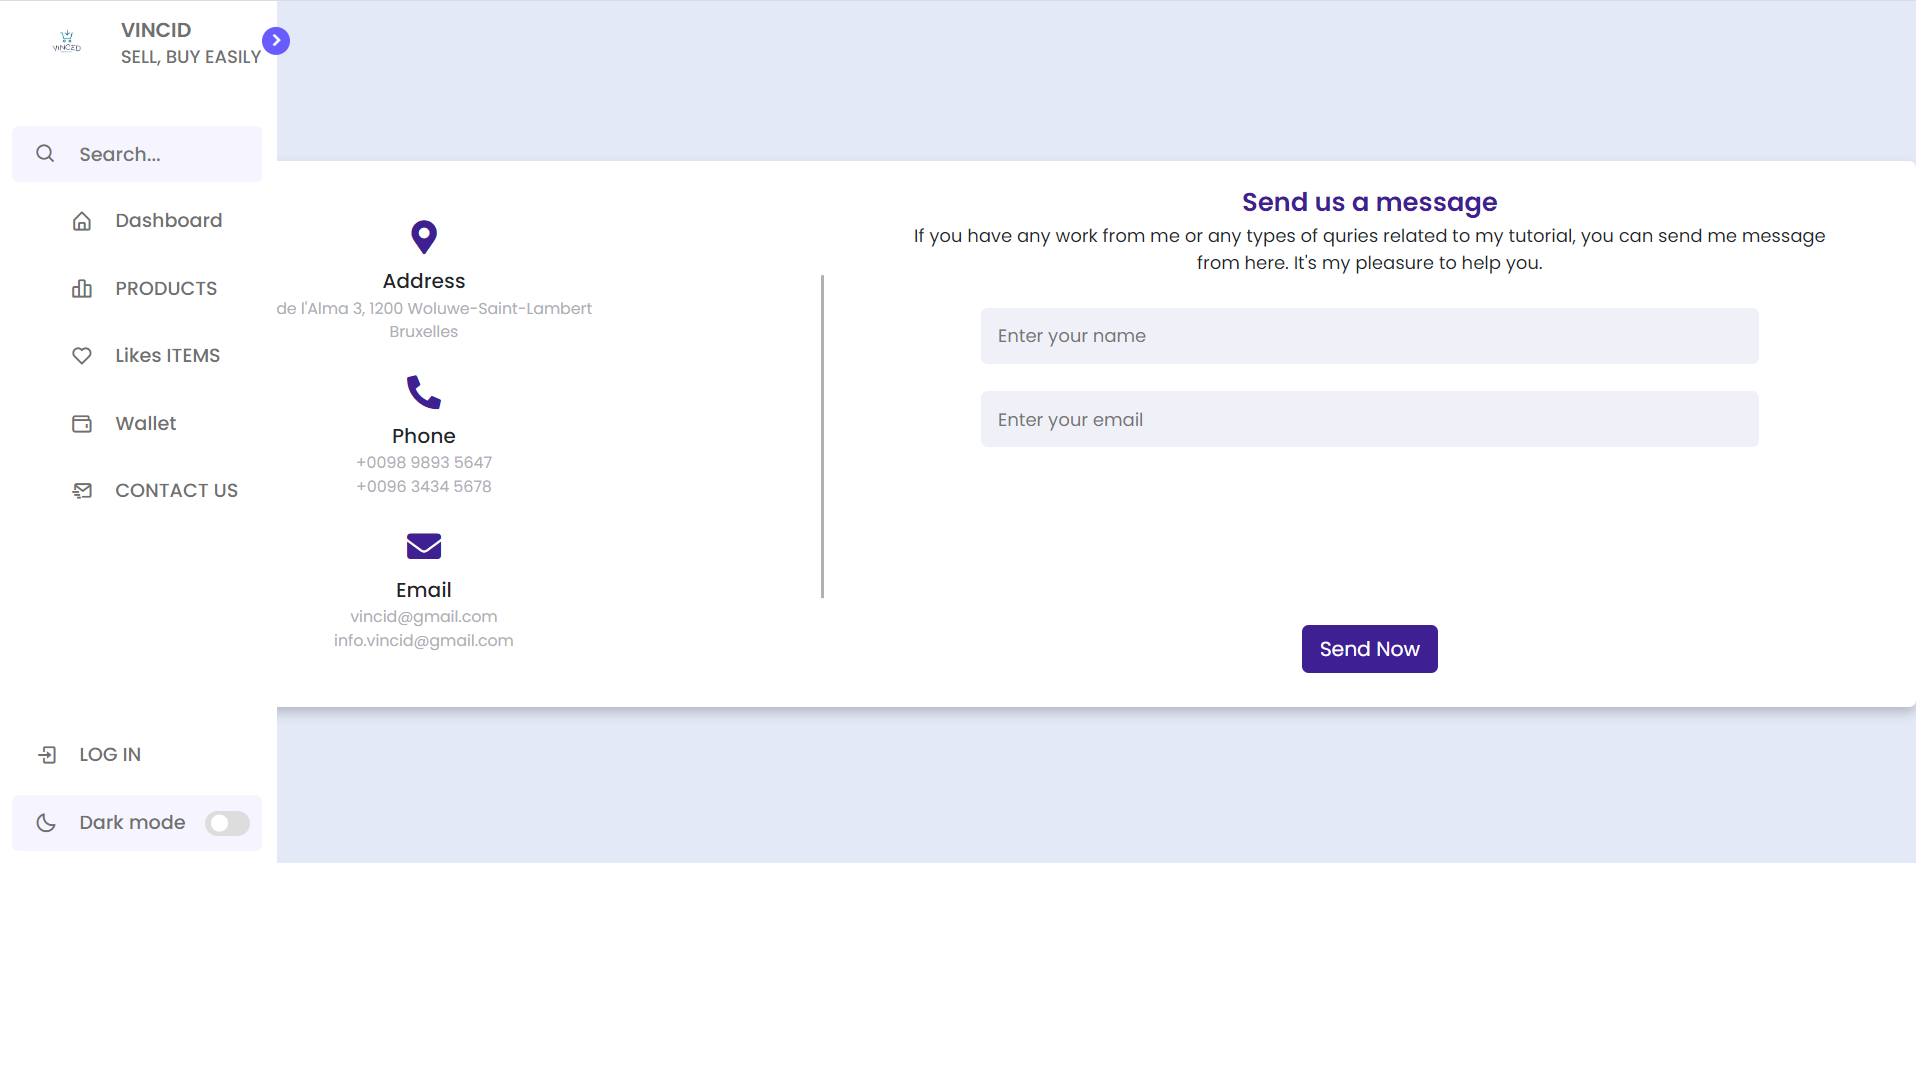
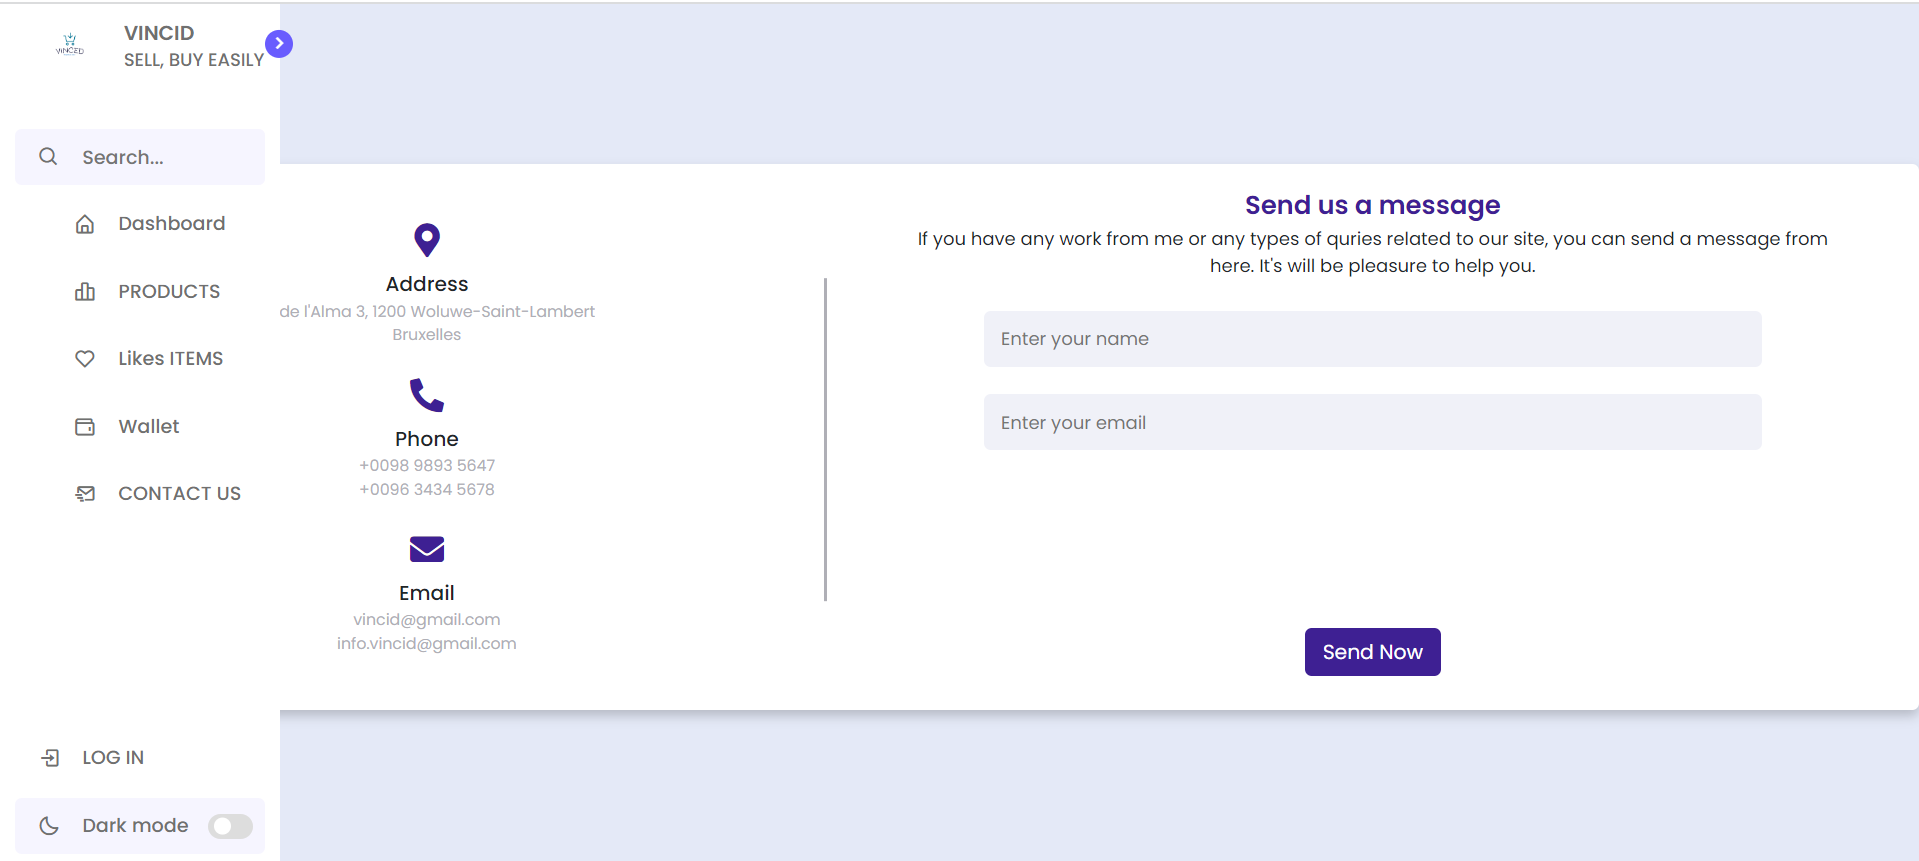
vffv

diff --git a/frontend/src/Components/Navbar/Navbar.js b/frontend/src/Components/Navbar/Navbar.js
@@ -1,5 +1,7 @@
 // eslint-disable-next-line no-unused-vars
 import { Navbar as BootstrapNavbar } from 'bootstrap';
+import 'boxicons';
+import logo from '../../img/logo.png';
 
 /**
  * Render the Navbar which is styled by using Bootstrap
@@ -9,91 +11,106 @@ import { Navbar as BootstrapNavbar } from 'bootstrap';
  */
 
 const Navbar = () => {
-  const navbarWrapper = document.querySelector('#navbarWrapper');
-  const navbar = `
-  <nav class = "sidebar">
+  renderNavbar();
+  darkmode();
+};
+
+function renderNavbar() {
+  const anonymousUserNavbar= `
+  <nav class = "sidebar close">
   <header>
-  <div class ="image-text">
-  <span class ="image">
-  <img src="${logo}" alt = "logo">
-  </span>
-
-  <div class = "text header-text">
-  <span class="name"> VINCID </span>
-  <span class = "profession"> BUY SELL EASILY </span>
+    <div class ="image-text">
+        <span class ="image">
+          <img src="${logo}" alt = "logo">
+        </span>
+        <div class="text logo-text">
+        <span class="name">VINCID</span>
+        <span class="profession">SELL, BUY EASILY</span>
     </div>
-  </div
-  <i class='bx bxs-left-down-arrow-circle toggle' ></i>
-  <i class='bx bx-chevron-right toggle'></i>
-  
-  
-  </header>
+</div>
 
-  <div class="menu-bar">
-    <div class ="menu">
+<i class='bx bx-chevron-right toggle'></i>
+</header>
+
+<div class="menu-bar">
+<div class="menu">
+
     <li class="search-box">
-          <i class='bx bx-search-alt icon' ></i>
-           <input type="search" placeholder="Search...">
-        </li>
+        <i class='bx bx-search icon'></i>
+        <input type="text" placeholder="Search...">
+    </li>
 
-      <ul class="menu-links">
-        <li class="nav-link">
-            <a href="#"> 
-              <i class='bx bx-home icon' ></i> 
-              <span class="text nav-text">HOMEPAGE</span> 
+    <ul class="menu-links">
+        <li class="">
+            <a href="/">
+                <i class='bx bx-home-alt icon' ></i>
+                <span class="text nav-text">Dashboard</span>
             </a>
         </li>
 
+        <li class="">
+            <a href="/product">
+                <i class='bx bx-bar-chart-alt-2 icon' ></i>
+                <span class="text nav-text">PRODUCTS</span>
+            </a>
+        </li>
+
+    
         <li class="nav-link">
-        <a href="#"> 
-          <i class='bx bx-home icon' ></i> 
-          <span class="text nav-text">HOMEPAGE</span> 
-        </a>
-    </li>
+            <a href="#">
+                <i class='bx bx-heart icon' ></i>
+                <span class="text nav-text">Likes ITEMS</span>
+            </a>
+        </li>
 
-    <li class="nav-link">
-    <a href="#"> 
-      <i class='bx bx-home icon' ></i> 
-      <span class="text nav-text">HOMEPAGE</span> 
-    </a>
-</li>
+        <li class="">
+            <a href="#">
+                <i class='bx bx-wallet icon' ></i>
+                <span class="text nav-text">Wallet</span>
+            </a>
+        </li>
 
-<li class="nav-link">
-<a href="#"> 
-  <i class='bx bx-home icon' ></i> 
-  <span class="text nav-text">HOMEPAGE</span> 
-</a>
-</li>
+        <li class="">
+            <a href="/contactpage">
+                <i class='bx bx-mail-send icon'></i>
+                <span class="text nav-text">CONTACT US </span>
+            </a>
+        </li>
 
-<li class="nav-link">
-<a href="#"> 
-  <i class='bx bx-home icon' ></i> 
-  <span class="text nav-text">HOMEPAGE</span> 
-</a>
-</li>
-        </ul>
-    </div>
-
-  <div class="bottom-content">
-      <li class="">
-        <a href="#"> 
-          <i class='bx bx-log-out icon'></i>
-          <span class="text nav-text">LOGOUT</span> 
-        </a>
-      </li>
-
-    <li class="">
-      <a href="#"> 
-      <i class='bx bx-at icon'></i>
-        <span class="text nav-text">about us</span> 
-      </a>
-    </li>
-
+    </ul>
 </div>
-  </div>
-  </nav>
-  `;
-  navbarWrapper.innerHTML = navbar;
+
+<div class="bottom-content">
+
+    
+    
+    <li class="">
+        <a href="/loginpage">
+            <i class='bx bx-log-in icon' ></i>
+            <span class="text nav-text">LOG IN </span>
+        </a>
+    </li>
+
+    <li class="mode">
+        <div class="sun-moon">
+            <i class='bx bx-moon icon moon'></i>
+            <i class='bx bx-sun icon sun'></i>
+        </div>
+        <span class="mode-text text">Dark mode</span>
+
+        <div class="toggle-switch">
+            <span class="switch"></span>
+        </div>
+    </li>
+    
+</div>
+</div>
+
+</nav>`;
+
+
+  const navbar = document.querySelector('#navbarWrapper')
+  navbar.innerHTML = anonymousUserNavbar;
 };
 
  /* function navbarclick(){

diff --git a/frontend/src/Components/Pages/HomePage.js b/frontend/src/Components/Pages/HomePage.js
@@ -1,26 +1,13 @@
 import { clearPage, renderPageTitle } from '../../utils/render';
 
-const HomePage = () => {
-    clearPage();
-    renderPageTitle('HOMEPAGE');
-    homepage();
-  };
-
-  function homepage() {
-    const homepageshow = `
-    <p> zeb </p>
-    `;
-    const main = document.querySelector('main');
-    main.innerHTML = homepageshow;
-  }
 const article = {title: 'Article 1', description: 'Description de l\'article 1', price: 10, auteur: 'Auteur 1', imgrender: 'https://picsum.photos/200/300'};
 
-const HomePage = () => {
+const HomePageRender = () => {
 
     const main = document.querySelector('main');
     const html = `
 
-    <div class="container">
+    <div class="containerhomepage">
         <div class="row">
             <div class="col-12 col-md-6 col-lg-4">
                 <div class="card" style="width: 18rem;">
@@ -36,6 +23,12 @@ const HomePage = () => {
 
     `;
     main.innerHTML = html;
+};
 
+const HomePage = () => {
+    clearPage();
+    renderPageTitle('HOMEPAGE');
+    HomePageRender();
+  };
 
 export default HomePage;

diff --git a/frontend/src/Components/Pages/ContactPage.js b/frontend/src/Components/Pages/ContactPage.js
@@ -31,7 +31,7 @@ function rendercontactusPage(){
       </div>
       <div class="right-side">
         <div class="topic-text">Send us a message</div>
-        <p>If you have any work from me or any types of quries related to my tutorial, you can send me message from here. It's my pleasure to help you.</p>
+        <p>If you have any work from me or any types of quries related to our site, you can send a message from here. It's will be pleasure to help you.</p>
       <form action="#">
         <div class="input-box">
           <input type="text" placeholder="Enter your name">

diff --git a/frontend/src/Components/Router/Router.js b/frontend/src/Components/Router/Router.js
@@ -7,7 +7,7 @@ import loginpage from '../Pages/LoginPage';
  
 const routes = {
   '/': HomePage,
-  '/game': GamePage,
+  
   '/product': ProductPage,
   '/register' : RegisterPage,
   '/contactpage' : ContactPage,

diff --git a/frontend/src/stylesheets/main.css b/frontend/src/stylesheets/main.css
@@ -982,6 +982,16 @@ form.sign-in-form {
  }
 }
 
+.containerhomepage{
+  width: 100;
+  align-items: center;
+  position: relative;
+}
+.card{
+  width: 100;
+  position: relative;
+}
+
 
 
 
